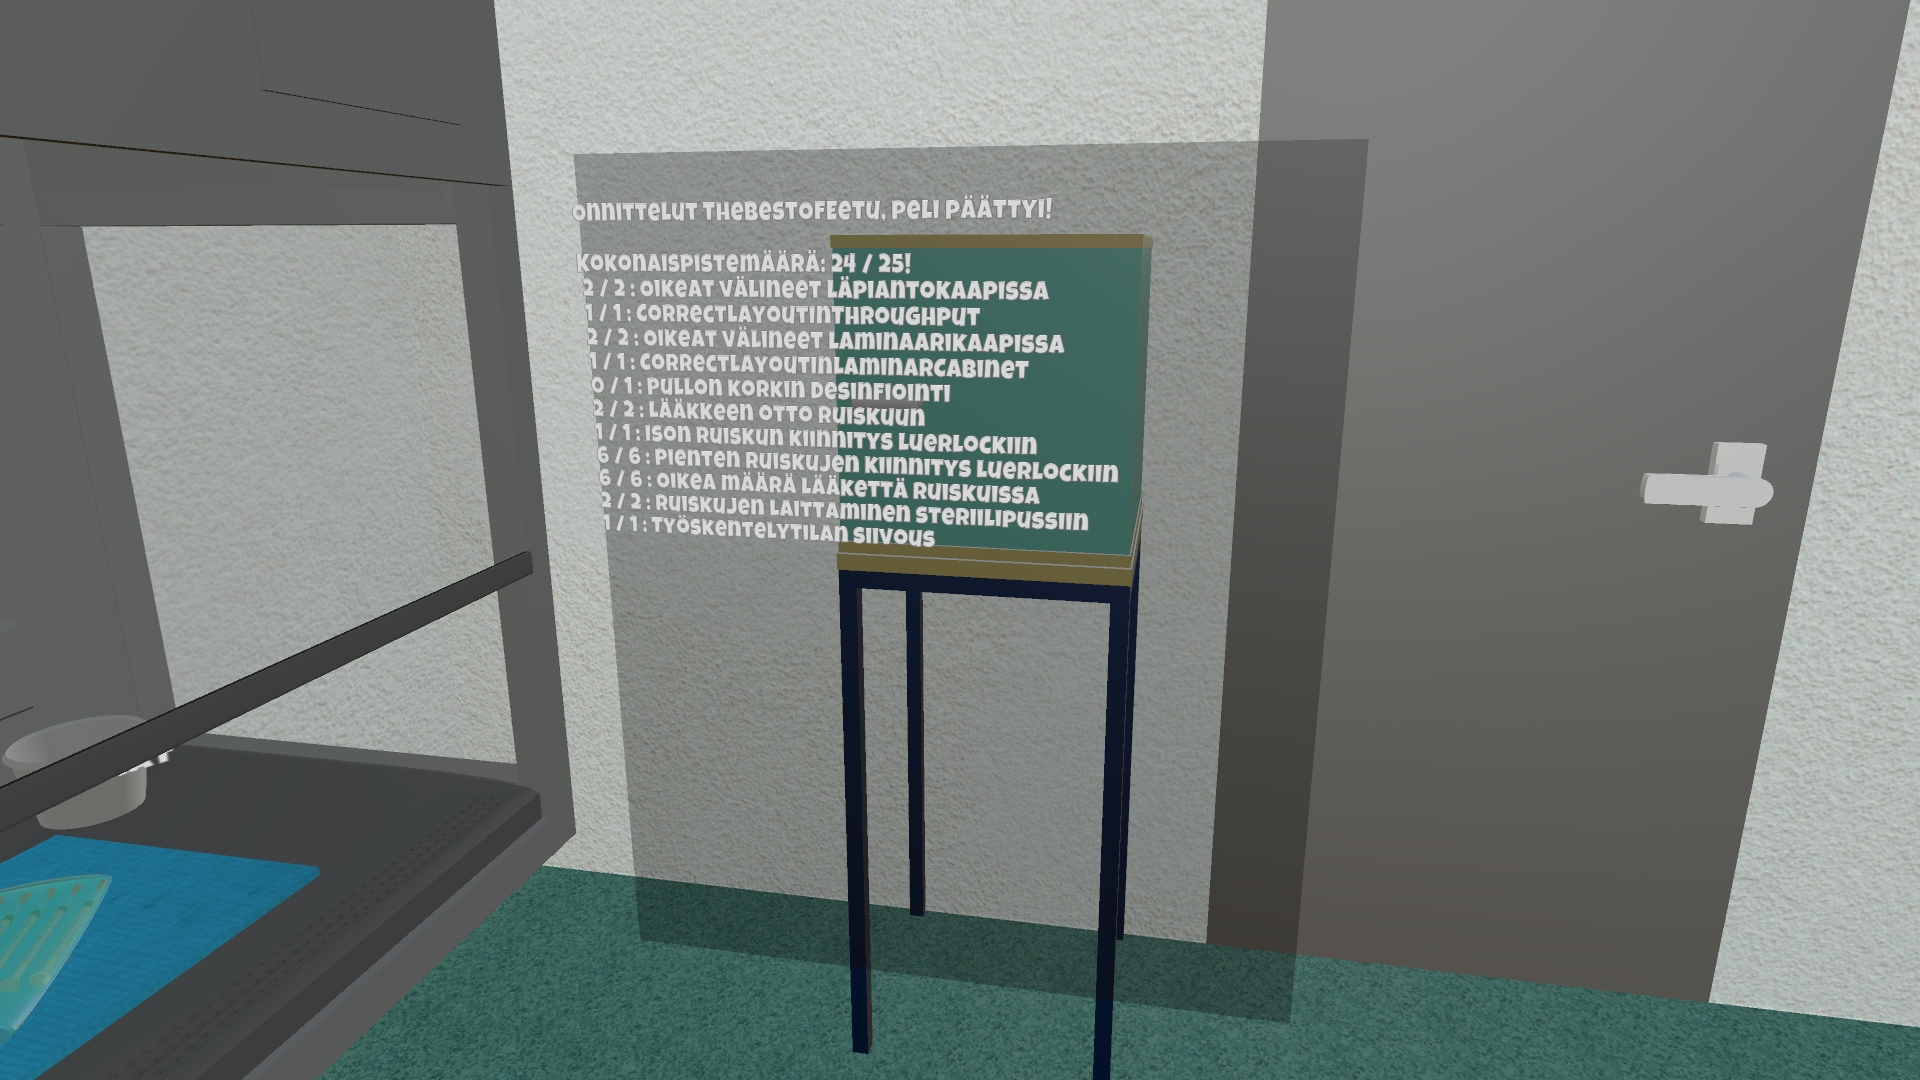
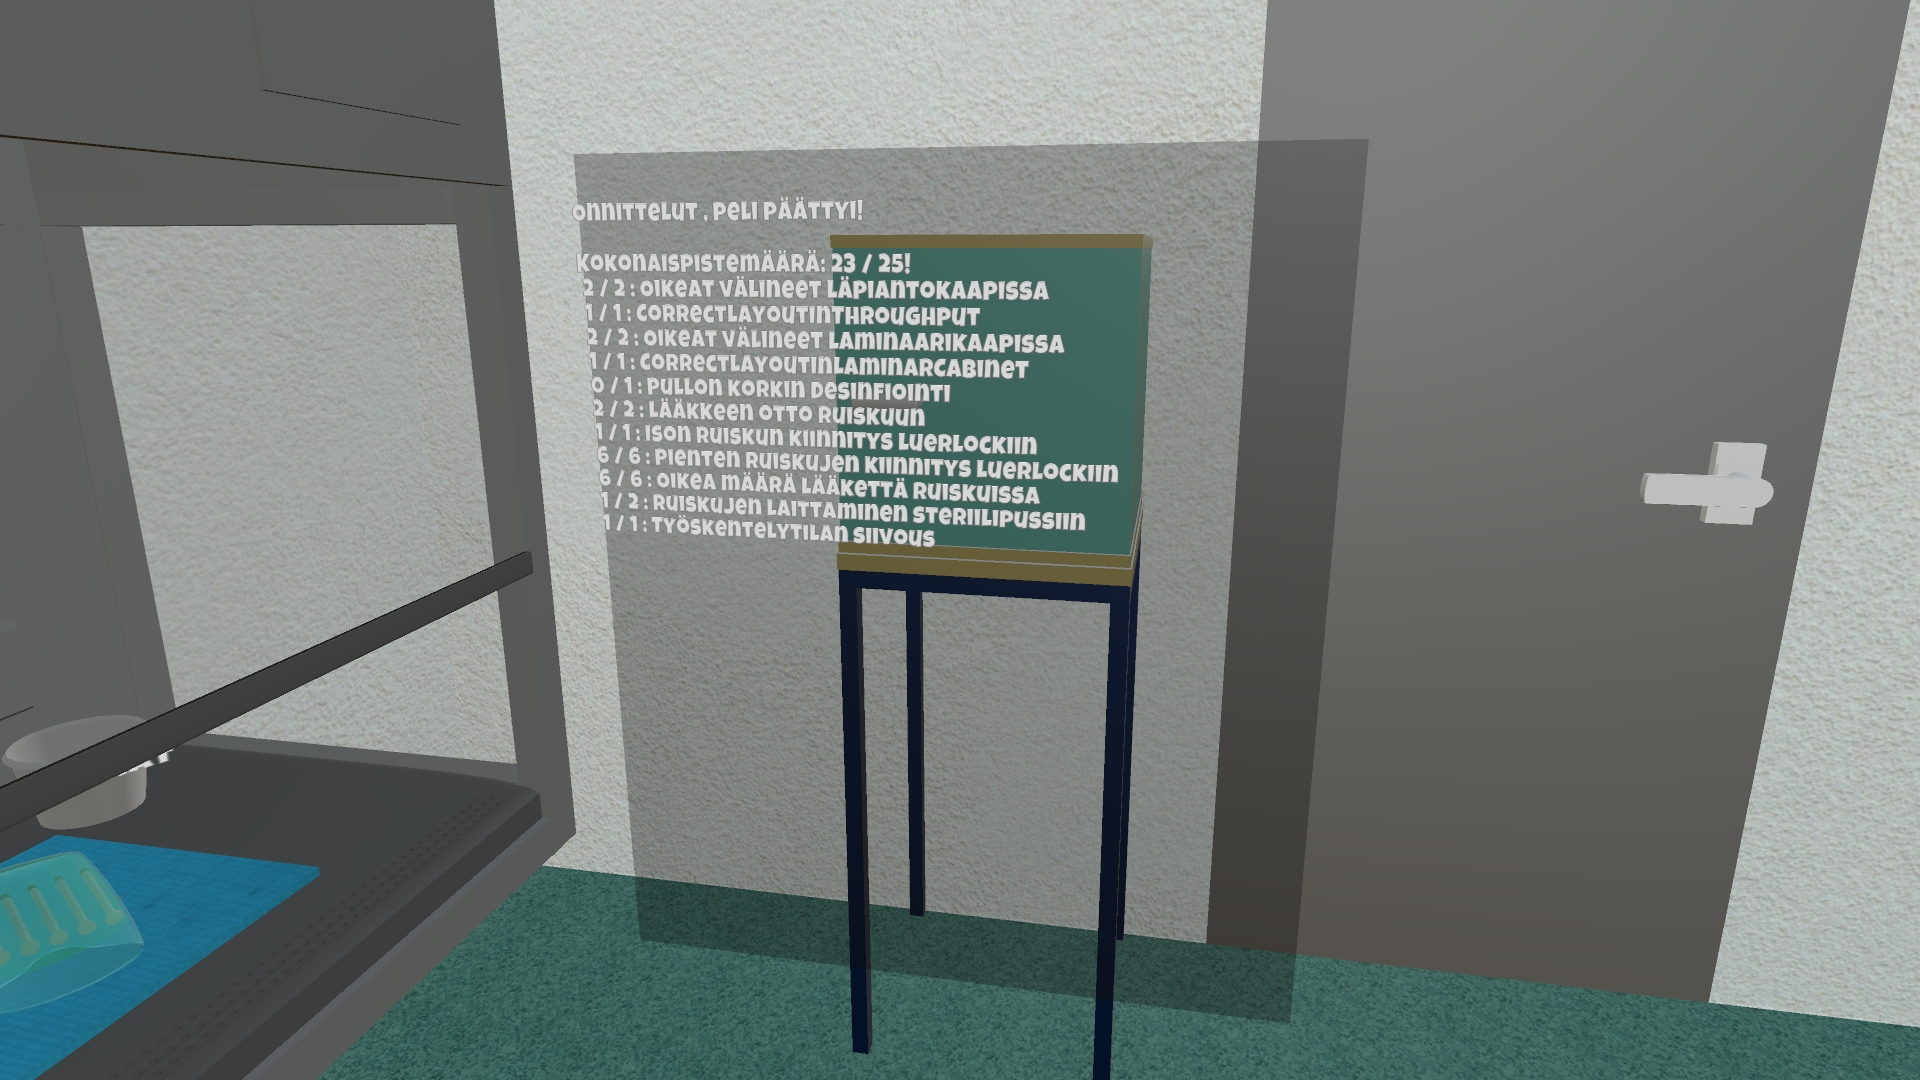
Fixed problems with progressmanager, finishing should be possible

Changed region(s): [[0.0, 0.7944, 0.0938, 0.9472], [0.3125, 0.4583, 0.5625, 0.4889], [0.3438, 0.1833, 0.5625, 0.2139]]

diff --git a/Assets/Scripts/ProgressSystem/TaskFactory/Tasks/MedicinePreparation/Workspace/ItemsToSterileBag.cs b/Assets/Scripts/ProgressSystem/TaskFactory/Tasks/MedicinePreparation/Workspace/ItemsToSterileBag.cs
@@ -67,13 +67,15 @@ public class ItemsToSterileBag : TaskBase {
         filledSyringesInCabinet = GetSyringesLiquidCount(GameObjectsToSyringes(laminarCabinet.objectsInsideArea), filledSyringesInCabinet);
         filledSyringesInBag = GetSyringesLiquidCount(sterileBag.Syringes, filledSyringesInBag);
 
-        if (sterileBag.IsClosed) {
+        if (!sterileBag.IsClosed) {
             if (filledSyringesInCabinet == filledSyringesInBag) {
+                Logger.Print(filledSyringesInCabinet + " : " + filledSyringesInBag);
+                Logger.Print("ENABLING SYRINGESPUT CONDITION");
                 EnableCondition(Conditions.SyringesPut);
             }
             CompleteTask();
 
-            if (!IsCompleted()) {
+            if (IsCompleted()) {
                 FinishTask();
             }
         } else {
@@ -142,32 +144,33 @@ public class ItemsToSterileBag : TaskBase {
 
     #region Public Methods
     public override void FinishTask() {
-        if (sterileBag.Syringes.Count >= 6) {
-            if (CapsOnSyringes()) {
-                if (!TaskMovedToSide) {
-                    Popup("Ruiskut laitettiin steriiliin pussiin.", MsgType.Done);
+        if (!isFinished) {
+            if (sterileBag.Syringes.Count >= 6) {
+                if (CapsOnSyringes()) {
+                    if (TaskMovedToSide) {
+                        Popup("Ruiskut laitettiin steriiliin pussiin.", MsgType.Done);
+                    }
+                } else {
+                    if (TaskMovedToSide) {
+                        Popup("Pakattiin oikea määrä ruiskuja mutta kaikissa ei ollut korkkia.", MsgType.Mistake, -1);
+                    }
+                    G.Instance.Progress.Calculator.Subtract(TaskType.ItemsToSterileBag);
                 }
             } else {
-                if (!TaskMovedToSide) {
-                    Popup("Pakattiin oikea määrä ruiskuja mutta kaikissa ei ollut korkkia.", MsgType.Mistake, -1);
+                if (sterileBag.Syringes.Count > 0 && CapsOnSyringes()) {
+                    if (TaskMovedToSide) {
+                        Popup("Kaikkia täytettyjä ruiskuja ei laitettu steriiliin pussiin.", MsgType.Mistake, -1);
+                    }
+                    G.Instance.Progress.Calculator.Subtract(TaskType.ItemsToSterileBag);
+                } else {
+                    if (TaskMovedToSide) {
+                        Popup("Kaikkia täytettyjä ruiskuja ei laitettu steriiliin pussiin ja kaikissa pakatuissa ruiskuissa ei ollut korkkia.", MsgType.Mistake, -2);
+                    }
+                    G.Instance.Progress.Calculator.SubtractWithScore(TaskType.ItemsToSterileBag, 2);
                 }
-                G.Instance.Progress.Calculator.Subtract(TaskType.ItemsToSterileBag);
             }
-        } else {
-            if (sterileBag.Syringes.Count > 0 && CapsOnSyringes()) {
-                if (!TaskMovedToSide) {
-                    Popup("Kaikkia täytettyjä ruiskuja ei laitettu steriiliin pussiin.", MsgType.Mistake, -1);
-                }
-                G.Instance.Progress.Calculator.Subtract(TaskType.ItemsToSterileBag);
-            } else {
-                if (!TaskMovedToSide) {
-                    Popup("Kaikkia täytettyjä ruiskuja ei laitettu steriiliin pussiin ja kaikissa pakatuissa ruiskuissa ei ollut korkkia.", MsgType.Mistake, -points);
-                }
-                G.Instance.Progress.Calculator.SubtractWithScore(TaskType.ItemsToSterileBag, points);
-            }
+            base.FinishTask();
         }
-        
-        base.FinishTask();
     }
 
     public override string GetDescription() {
@@ -179,6 +182,7 @@ public class ItemsToSterileBag : TaskBase {
     }
 
     protected override void OnTaskComplete() {
+        Logger.Print("DISABLING CAP FACTORY");
         laminarCabinet.DisableCapFactory();
     }
     #endregion

diff --git a/Assets/Scripts/ProgressSystem/TaskFactory/Tasks/MedicinePreparation/EquipmentSelection/CorrectItemsInThroughput.cs b/Assets/Scripts/ProgressSystem/TaskFactory/Tasks/MedicinePreparation/EquipmentSelection/CorrectItemsInThroughput.cs
@@ -67,6 +67,19 @@ public class CorrectItemsInThroughput : TaskBase {
     }
     #endregion
 
+    private void MissingItems() {
+        if (!firstCheckDone) {
+            Popup("Työvälineitä puuttuu tai sinulla ei ole oikeita työvälineitä.", MsgType.Mistake, -2);
+            G.Instance.Progress.Calculator.SubtractWithScore(TaskType.CorrectItemsInThroughput, 2);
+            firstCheckDone = true;
+        } else {
+            Popup("Työvälineitä puuttuu tai sinulla ei ole oikeita työvälineitä.", MsgType.Mistake);
+        }
+        //Logger.Print(cabinet.GetMissingItems());
+        smallSyringes = 0;
+        DisableConditions();
+    }
+
     #region Private Methods
     private void CheckConditions(List<GameObject> containedObjects) {
         foreach (GameObject value in containedObjects) {
@@ -106,18 +119,7 @@ public class CorrectItemsInThroughput : TaskBase {
         }
     }
 
-    private void MissingItems() {
-        if (!firstCheckDone) {
-            Popup("Työvälineitä puuttuu tai sinulla ei ole oikeita työvälineitä.", MsgType.Mistake, -2);
-            G.Instance.Progress.Calculator.SubtractWithScore(TaskType.CorrectItemsInThroughput, 2);
-            firstCheckDone = true;
-        } else {
-            Popup("Työvälineitä puuttuu tai sinulla ei ole oikeita työvälineitä.", MsgType.Mistake);
-        }
-        //Logger.Print(cabinet.GetMissingItems());
-        smallSyringes = 0;
-        DisableConditions();
-    }
+    
 
     protected override void OnTaskComplete() {
 
@@ -127,6 +129,7 @@ public class CorrectItemsInThroughput : TaskBase {
     #region Public Methods
     public override void CompleteTask() {
         base.CompleteTask();
+        Logger.Print("ONKO HOIDETTU: " + IsCompleted());
         if (IsCompleted()) {
             if (!correctMedicineBottle) {
                 Popup("Liian iso lääkepullo.", MsgType.Mistake, -1);

diff --git a/Assets/Scripts/ProgressSystem/TaskFactory/Tasks/MedicinePreparation/Workspace/CorrectAmountOfMedicineSelected.cs b/Assets/Scripts/ProgressSystem/TaskFactory/Tasks/MedicinePreparation/Workspace/CorrectAmountOfMedicineSelected.cs
@@ -61,6 +61,7 @@ public class CorrectAmountOfMedicineSelected : TaskBase {
  
         if (attachedSyringes.ContainsKey(s.GetInstanceID())) {
             if (IsPreviousTasksCompleted(requiredTasks)) {
+                Logger.Print("YES");
                 if (attachedSyringes[s.GetInstanceID()] != s.Container.Amount) {
                     attachedSyringes[s.GetInstanceID()] = s.Container.Amount;
 
@@ -75,16 +76,19 @@ public class CorrectAmountOfMedicineSelected : TaskBase {
                             Popup("Ruiskuun otettiin väärä määrä lääkettä.", MsgType.Mistake);
                         }
                     } else {
+                        EnableCondition(Conditions.RightAmountOfMedicine);
                         CompleteTask();
+                        return;
                     }
                 }
             } else {
+                Logger.Print("NO");
                 attachedSyringes.Remove(s.GetInstanceID());
             }
 
             foreach (ITask task in G.Instance.Progress.GetAllTasks()) {
                 if (task.GetTaskType() == TaskType.SyringeAttach) {
-                    base.package.MoveTaskFromManagerBeforeTask(TaskType.SyringeAttach, this);
+                    package.MoveTaskFromManagerBeforeTask(TaskType.SyringeAttach, this);
                     break;
                 }
             }

diff --git a/Assets/Scripts/ProgressSystem/TaskFactory/Tasks/TaskBase.cs b/Assets/Scripts/ProgressSystem/TaskFactory/Tasks/TaskBase.cs
@@ -42,7 +42,7 @@ public abstract class TaskBase : ITask {
     //needs fixing
     public virtual void CompleteTask() {
 
-        bool completed = CheckClearConditions();
+        completed = CheckClearConditions();
         if (completed) {
             RemoveFromPackage();
             OnTaskComplete();
@@ -59,6 +59,7 @@ public abstract class TaskBase : ITask {
     //When ProgressManager is done! Finish all tasks.
     public virtual void FinishTask() {
         UnsubscribeAllEvents();
+        isFinished = true;
     }
 
     public virtual void RemoveFromPackage() {

diff --git a/Assets/Scripts/ProgressSystem/TaskFactory/Tasks/MedicinePreparation/Finishing/Finish.cs b/Assets/Scripts/ProgressSystem/TaskFactory/Tasks/MedicinePreparation/Finishing/Finish.cs
@@ -132,6 +132,7 @@ public class Finish : TaskBase {
         LayoutInThroughPut();
         LayoutInLaminarCabinet();
         BottlesDisinfected();
+        CompleteTask();
         base.FinishTask();
     }
 
@@ -144,7 +145,6 @@ public class Finish : TaskBase {
     }
 
     protected override void OnTaskComplete() {
-        throw new NotImplementedException();
     }
     #endregion
 }

diff --git a/Assets/Scripts/ProgressSystem/TaskFactory/Tasks/MedicinePreparation/Optional/ScenarioOneCleanUp.cs b/Assets/Scripts/ProgressSystem/TaskFactory/Tasks/MedicinePreparation/Optional/ScenarioOneCleanUp.cs
@@ -110,7 +110,6 @@ public class ScenarioOneCleanUp : TaskBase {
     }
 
     protected override void OnTaskComplete() {
-        throw new NotImplementedException();
     }
     #endregion
 }
